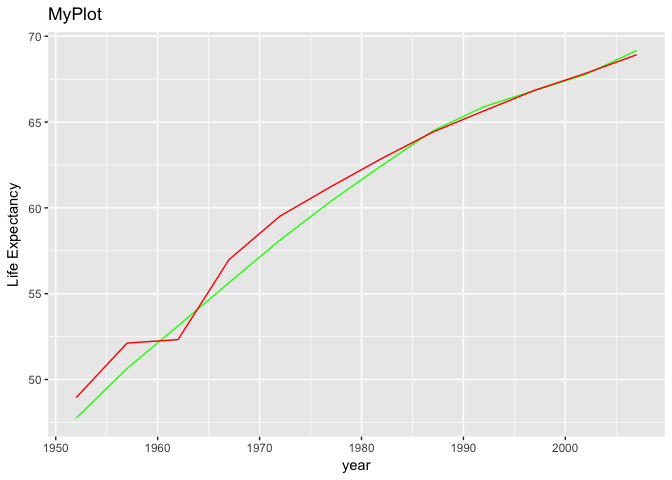
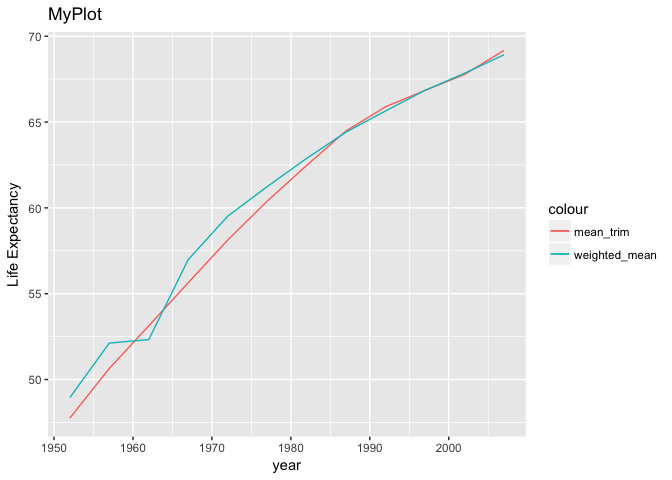
11

diff --git a/hw03/hw03.md b/hw03/hw03.md
@@ -20,6 +20,17 @@ library(tidyverse)
     ## filter(): dplyr, stats
     ## lag():    dplyr, stats
 
+``` r
+library(reshape2)
+```
+
+    ## 
+    ## Attaching package: 'reshape2'
+
+    ## The following object is masked from 'package:tidyr':
+    ## 
+    ##     smiths
+
 Task Menu
 ---------
 
@@ -116,7 +127,7 @@ knitr::kable(out3)
 In this plot, we compare life expectations for different years calculated by two different methods.
 
 ``` r
-ggplot(out3,aes(year,mean_trim))+geom_line(color="green")+geom_line(aes(year,weighted_mean),color="red")+labs(x="year", y="Life Expectancy",title="MyPlot")+scale_fill_discrete(name="",labels=c("mean_trim","weighted_mean"))
+ggplot(out3,aes(year,mean_trim))+geom_line(aes(color="mean_trim"))+geom_line(aes(year,weighted_mean,color="weighted_mean"))+labs(x="year", y="Life Expectancy",title="MyPlot")+scale_fill_discrete(name="",labels=c("mean_trim","weighted_mean"))
 ```
 
 ![](hw03_files/figure-markdown_github-ascii_identifiers/unnamed-chunk-8-1.png)
